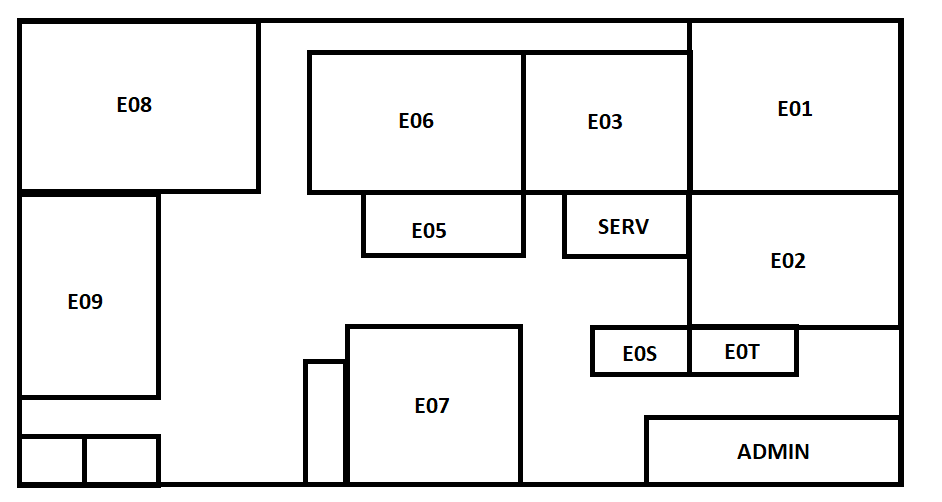
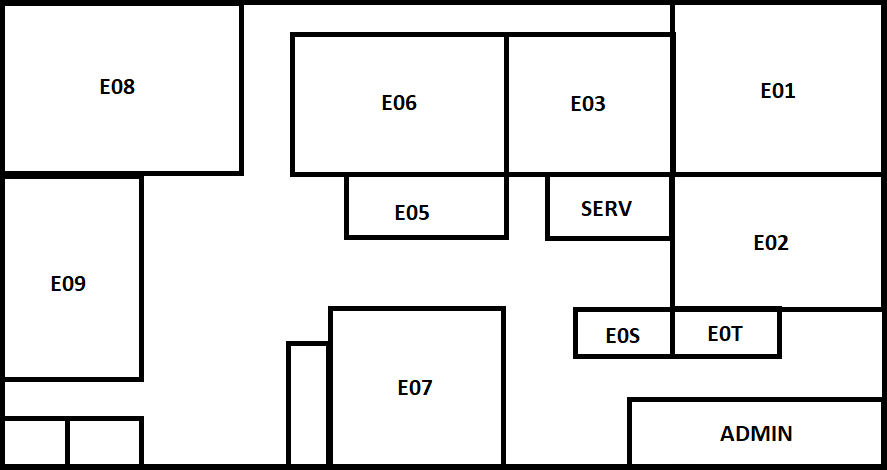
Trying some css stuff

diff --git a/inProjects.SPA/src/components/Plan.vue b/inProjects.SPA/src/components/Plan.vue
@@ -8,8 +8,8 @@
                 style="height: 200px; width: auto;"/>
         </div>
 
-        <div >
-            <table class="plan">
+        <div class="plan" >
+            <table class="table">
                 <tr
                     v-for="boxRow in boxes.length"
                     :key="boxRow">
@@ -190,20 +190,24 @@ export default class Plan extends Vue {
 <style>
 .plan {
     background-image: url("/plan.png");
-    background-repeat: no-repeat;
     background-size: 100%;
-    size: 10%;
+    background-repeat: no-repeat;
+    width: 80vw;
+    height: auto;
+}
+
+.table {
     border-width: 0px;
     border-spacing: 0;
-    display:grid;
-    height: auto;
-    width: 80%;
-    box-sizing: 100px;
+    display: grid;
+    height: 100%;
+    width: 100%;
+    box-sizing: content-box;
 }
 
 .dropZones {
     height: 100px;
-    width: 100px;
+    width: 100%;
     opacity: 0.2;
 }
 
@@ -214,11 +218,12 @@ export default class Plan extends Vue {
 }
 
 #tr {
+
 }
 
-#td {
-    /* height: 100px;
-    width: 100px; */
+td {
+    height: 100px;
+    width: 7.14vw;
 }
 
 </style>
